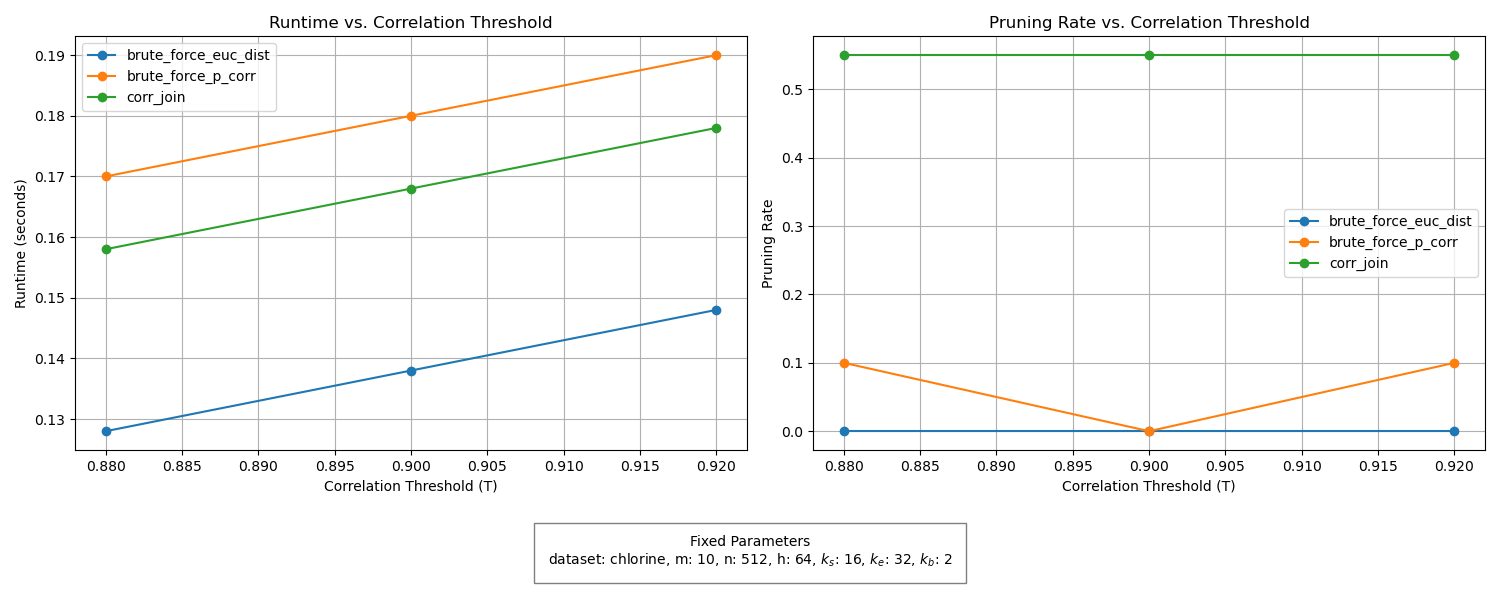
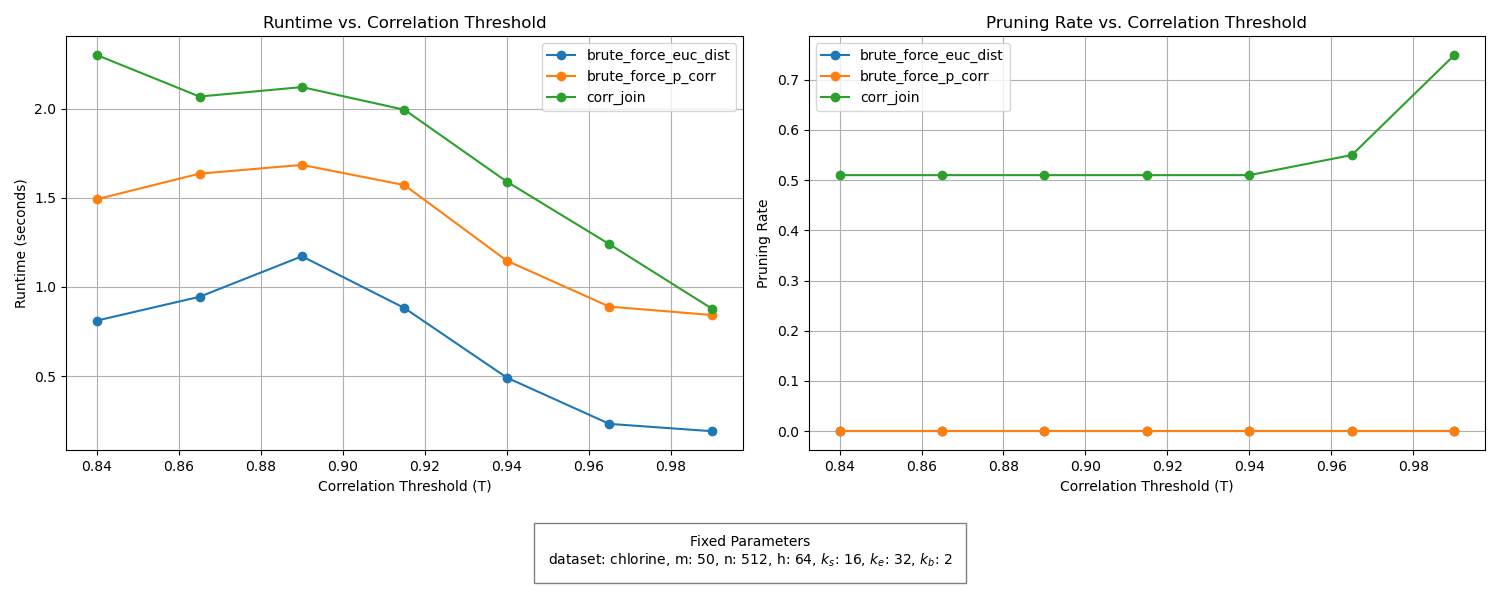
feat: automatic run for runtime vs. T and pr vs. T

diff --git a/code/brute_force_implementation/main.py b/code/brute_force_implementation/main.py
@@ -7,7 +7,6 @@ from brute_force_euc_dist import brute_force_euc_dist
 from brute_force_p_corr import brute_force_p_corr
 from corr_join import corr_join
 import load_data as ld
-from paa import paa_custom, paa_pyts
 import util
 
 
@@ -35,10 +34,30 @@ def corr_join_wrapper(dataset: str, params: str, logger,
   )
 
 
+def gen_t_runtime_pr_data(perf_logger):
+  """
+  Generate performance data for the runtime vs. T and pruning rate vs. T
+  plots.
+  """
+  for i in range(7):
+    corr_join_wrapper("chlorine", f"chlorine_0_run_{i}", perf_logger, m=50)
+    corr_join_wrapper("chlorine", f"chlorine_0_run_{i}", perf_logger, m=50, algorithm_1=brute_force_p_corr)
+    corr_join_wrapper("chlorine", f"chlorine_0_run_{i}", perf_logger, m=50, algorithm_1=brute_force_euc_dist)
+
+
+def gen_perf_data():
+  """
+  Generate performance data.
+  """
+  print("Hello World!")
+
+
 if __name__ == '__main__':
   # Use the same logger for all runs to avoid duplicate entries
   perf_logger = util.create_csv_logger("performance_logger", logging.INFO,
     "performance_log.csv")
+  gen_t_runtime_pr_data(perf_logger)
+
   # Run with CorrJoin
   # corr_join_wrapper("audio", "audio_params_1", perf_logger)
   # corr_join_wrapper("custom_financial", "financial_params_1", perf_logger)
@@ -58,10 +77,10 @@ if __name__ == '__main__':
   # corr_join_wrapper("synthetic", "chlorine_params_1", perf_logger, m=10, algorithm_1=brute_force_p_corr)
 
   # Run with brute-force algorithm using the Euclidean distance
-  corr_join_wrapper("audio", "audio_params_1", perf_logger, algorithm_1=brute_force_euc_dist)
-  corr_join_wrapper("custom_financial", "financial_params_1", perf_logger, algorithm_1=brute_force_euc_dist)
-  corr_join_wrapper("chlorine", "chlorine_params_1", perf_logger, m=10, algorithm_1=brute_force_euc_dist)
-  corr_join_wrapper("gas", "chlorine_params_1", perf_logger, m=10, algorithm_1=brute_force_euc_dist)
-  corr_join_wrapper("random", "random_params_1", perf_logger, m=50, algorithm_1=brute_force_euc_dist)
-  corr_join_wrapper("stock", "chlorine_params_1", perf_logger, m=10, algorithm_1=brute_force_euc_dist)
-  corr_join_wrapper("synthetic", "chlorine_params_1", perf_logger, m=10, algorithm_1=brute_force_euc_dist)
+  # corr_join_wrapper("audio", "audio_params_1", perf_logger, algorithm_1=brute_force_euc_dist)
+  # corr_join_wrapper("custom_financial", "financial_params_1", perf_logger, algorithm_1=brute_force_euc_dist)
+  # corr_join_wrapper("chlorine", "chlorine_params_1", perf_logger, m=10, algorithm_1=brute_force_euc_dist)
+  # corr_join_wrapper("gas", "chlorine_params_1", perf_logger, m=10, algorithm_1=brute_force_euc_dist)
+  # corr_join_wrapper("random", "random_params_1", perf_logger, m=50, algorithm_1=brute_force_euc_dist)
+  # corr_join_wrapper("stock", "chlorine_params_1", perf_logger, m=10, algorithm_1=brute_force_euc_dist)
+  # corr_join_wrapper("synthetic", "chlorine_params_1", perf_logger, m=10, algorithm_1=brute_force_euc_dist)

diff --git a/code/brute_force_implementation/util.py b/code/brute_force_implementation/util.py
@@ -27,7 +27,16 @@ def get_params(params_name: str):
     "audio_params_1": (500, 10, 0.75, 100, 250, 2),
     "financial_params_1": (300, 10, 0.85, 15, 30, 3),
     "chlorine_params_1": (512, 64, 0.9, 16, 32, 2),
-    "random_params_1": (512, 64, 0.75, 16, 32, 2)
+    "random_params_1": (512, 64, 0.75, 16, 32, 2),
+    # Params for runtime vs. T and pruning rate vs. T plots
+    "chlorine_0_plot_0": (512, 64, -1, 16, 32, 2),
+    "chlorine_0_run_0": (512, 64, 0.84, 16, 32, 2),
+    "chlorine_0_run_1": (512, 64, 0.865, 16, 32, 2),
+    "chlorine_0_run_2": (512, 64, 0.89, 16, 32, 2),
+    "chlorine_0_run_3": (512, 64, 0.915, 16, 32, 2),
+    "chlorine_0_run_4": (512, 64, 0.94, 16, 32, 2),
+    "chlorine_0_run_5": (512, 64, 0.965, 16, 32, 2),
+    "chlorine_0_run_6": (512, 64, 0.99, 16, 32, 2)
   }
   return parameters[params_name]
 

diff --git a/code/brute_force_implementation/plot.py b/code/brute_force_implementation/plot.py
@@ -166,7 +166,7 @@ def n_runtime_pr(df, ds_name: str, m: int, params):
 
 def main():
   df = pd.read_csv('./code/brute_force_implementation/logs/performance_log.csv')
-  t_runtime_pr(df, "chlorine", 10, util.get_params("chlorine_params_1"))
+  t_runtime_pr(df, "chlorine", 50, util.get_params("chlorine_0_plot_0"))
   t_runtime_pr(df, "gas", 10, util.get_params("chlorine_params_1"))
   n_runtime_pr(df, "chlorine", 10, util.get_params("chlorine_params_1"))
   n_runtime_pr(df, "gas", 10, util.get_params("chlorine_params_1"))
